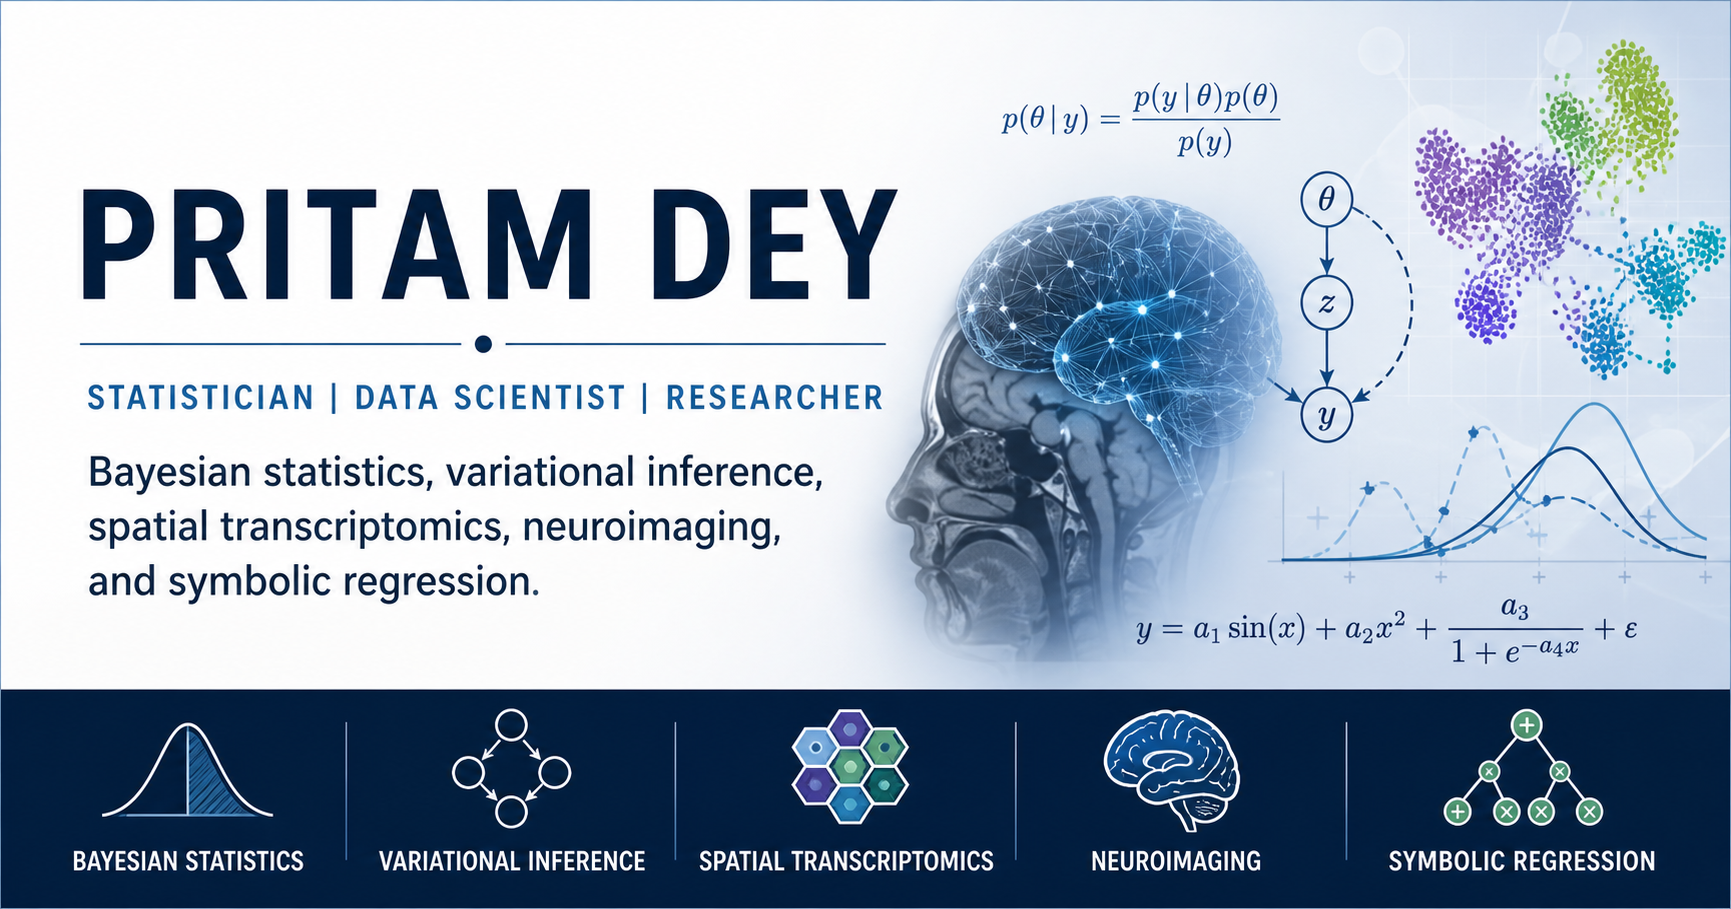
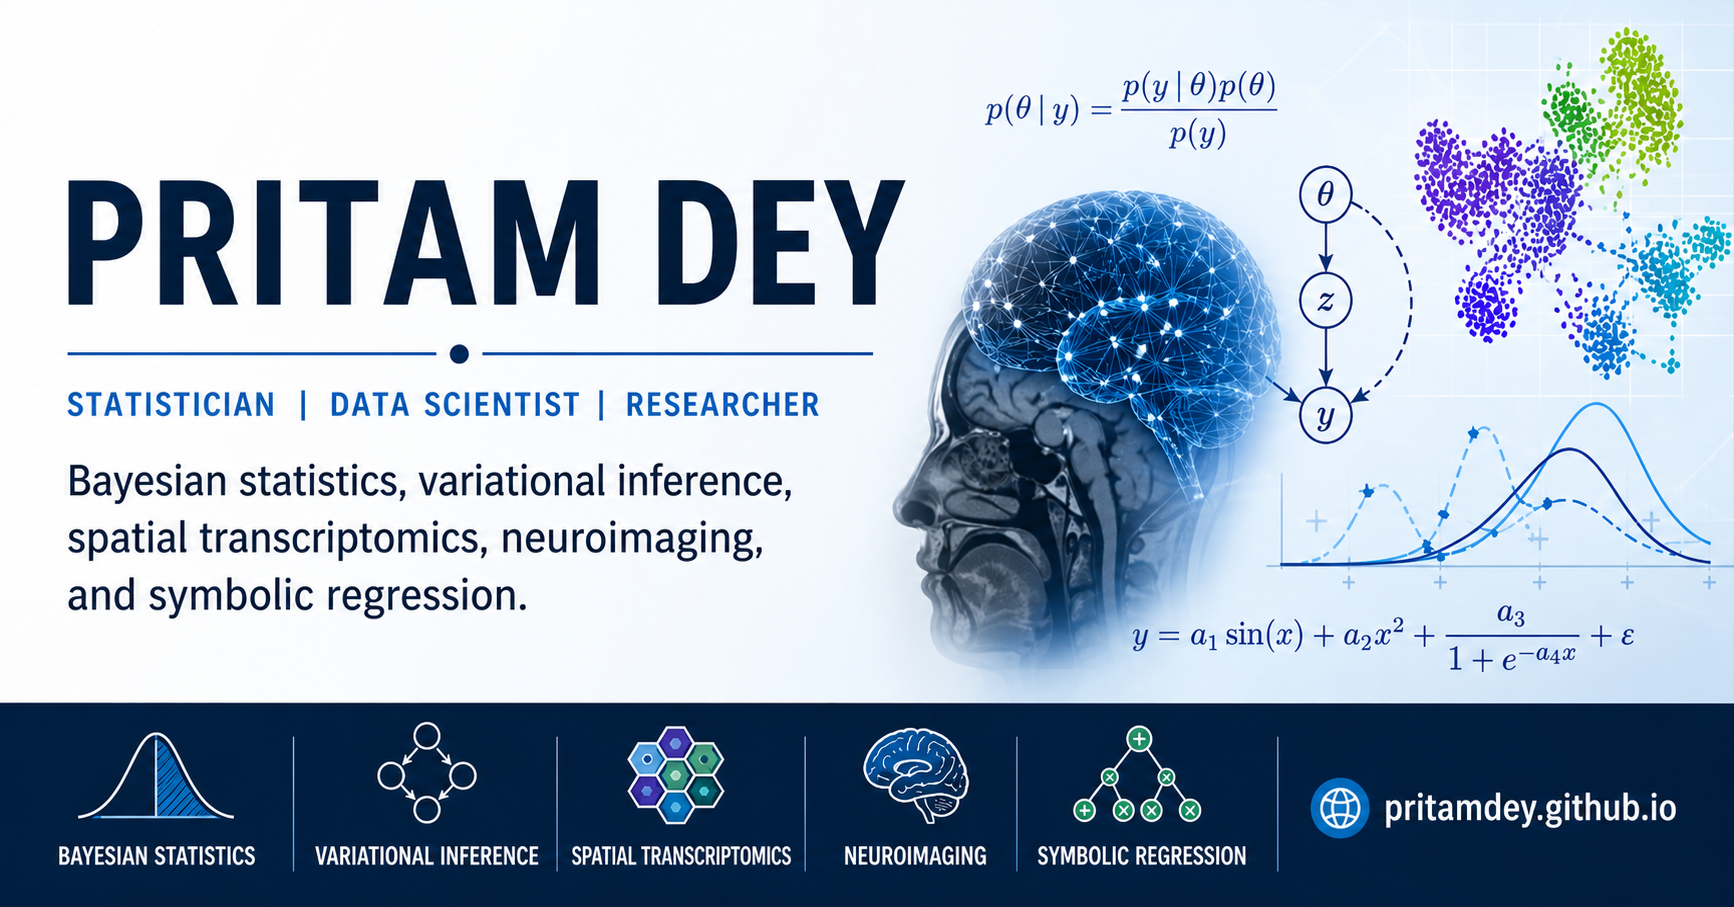
Update OG image

diff --git a/_site/index.html b/_site/index.html
@@ -81,14 +81,14 @@ ul.task-list li input[type="checkbox"] {
 <meta property="og:description" content="Bayesian statistics, variational inference, spatial transcriptomics, neuroimaging, and symbolic regression.">
 <meta property="og:image" content="https://pritamdey.github.io/assets/og-image.png">
 <meta property="og:site_name" content="Pritam Dey">
-<meta property="og:image:height" content="909">
-<meta property="og:image:width" content="1731">
+<meta property="og:image:height" content="907">
+<meta property="og:image:width" content="1734">
 <meta name="twitter:title" content="Pritam Dey">
 <meta name="twitter:description" content="Bayesian statistics, variational inference, spatial transcriptomics, neuroimaging, and symbolic regression.">
 <meta name="twitter:image" content="https://pritamdey.github.io/assets/og-image.png">
 <meta name="twitter:card" content="summary_large_image">
-<meta name="twitter:image-height" content="909">
-<meta name="twitter:image-width" content="1731">
+<meta name="twitter:image-height" content="907">
+<meta name="twitter:image-width" content="1734">
 </head>
 
 <body class="nav-fixed fullcontent quarto-light">
